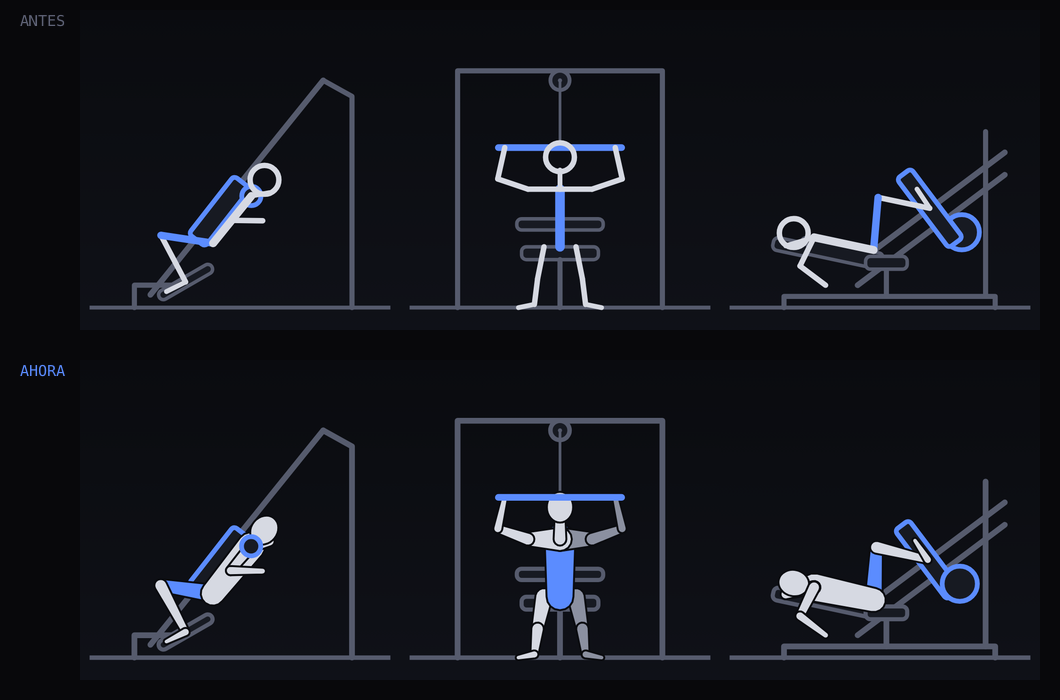
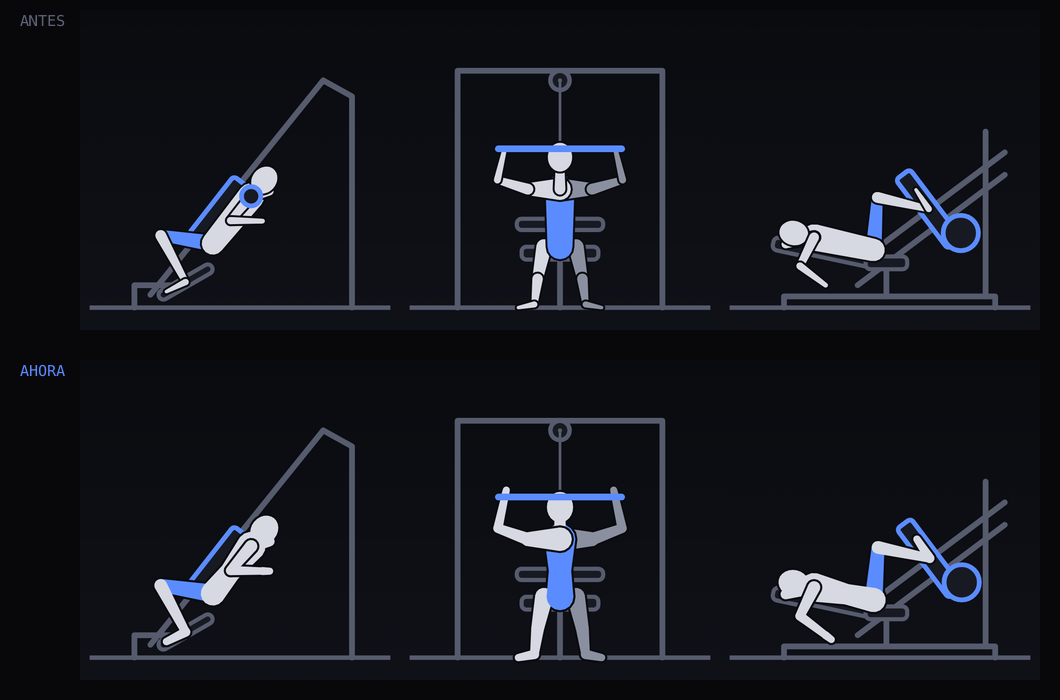
fix(dibujos): una silueta por cadena en vez de piezas con costura
Cada cápsula traía su propio contorno, así que se veían las uniones entre muslo
y pantorrilla o entre torso y pierna y el cuerpo parecía un maniquí de madera.
Ahora cada cadena se pinta en dos pasadas —todas las piezas engordadas en el
color del contorno, después los rellenos sin trazo— y el contorno queda solo por
fuera. Las cadenas que se superponen entre sí van en grupos separados para
conservar la línea que las distingue.

El torso pasa a ser pelvis y caja torácica con cintura, y la mano es un bloque
en la prolongación del antebrazo en vez de una punta.

El arnés de hombros vuelve a dibujarse detrás de la figura: encima le tapaba la
cabeza en la hack y en los gemelos.

diff --git a/src/app.tsx b/src/app.tsx
@@ -66,15 +66,55 @@ function bone(a: Joint, b: Joint, wa: number, wb: number): string {
   return "M" + pts.join("L") + "Z";
 }
 
-function Part(props: { a: Joint; b: Joint; wa: number; wb: number; c: string }) {
+type Shape = { d: string; c: string };
+
+/** Elipse como path, para que la cabeza entre en el mismo pase que el resto. */
+function oval(at: Joint, rx: number, ry: number, tilt: number): string {
+  const pts: string[] = [];
+  for (let i = 0; i < 24; i++) {
+    const t = (Math.PI * 2 * i) / 24;
+    const x = Math.cos(t) * rx;
+    const y = Math.sin(t) * ry;
+    pts.push(
+      (at[0] + x * Math.cos(tilt) - y * Math.sin(tilt)).toFixed(2) +
+        "," +
+        (at[1] + x * Math.sin(tilt) + y * Math.cos(tilt)).toFixed(2)
+    );
+  }
+  return "M" + pts.join("L") + "Z";
+}
+
+/** Punto a fracción del camino de a a b. */
+function along(a: Joint, b: Joint, k: number): Joint {
+  return [a[0] + (b[0] - a[0]) * k, a[1] + (b[1] - a[1]) * k];
+}
+
+/** Prolonga el segmento a→b más allá de b, para la mano. */
+function beyond(a: Joint, b: Joint, by: number): Joint {
+  const len = Math.hypot(b[0] - a[0], b[1] - a[1]) || 1;
+  return [b[0] + ((b[0] - a[0]) / len) * by, b[1] + ((b[1] - a[1]) / len) * by];
+}
+
+/**
+ * Dibuja un grupo de piezas como una sola silueta: primero todas engordadas en
+ * el color del contorno, después los rellenos sin trazo. Así el contorno queda
+ * solo por fuera y adentro no se ven las costuras entre muslo y pantorrilla, que
+ * es lo que hacía que el cuerpo pareciera un maniquí de madera.
+ *
+ * Cada cadena que se superpone con otra —el brazo sobre el torso, la pierna
+ * lejana sobre la cercana— va en su propio grupo, para que ahí sí quede la línea
+ * que las separa.
+ */
+function Silhouette(props: { shapes: Shape[] }) {
   return (
-    <path
-      d={bone(props.a, props.b, props.wa, props.wb)}
-      fill={props.c}
-      stroke={OUTLINE}
-      stroke-width={1.2}
-      stroke-linejoin="round"
-    />
+    <g>
+      {props.shapes.map((s, i) => (
+        <path key={"o" + i} d={s.d} fill={OUTLINE} stroke={OUTLINE} stroke-width={2.6} stroke-linejoin="round" />
+      ))}
+      {props.shapes.map((s, i) => (
+        <path key={"f" + i} d={s.d} fill={s.c} />
+      ))}
+    </g>
   );
 }
 
@@ -82,61 +122,72 @@ function Figure(props: { ex: Exercise; pose: Pose }) {
   const { ex, pose: p } = props;
   const hot = new Set(ex.primary.map((m) => (MUSCLE[m] ? MUSCLE[m][0] : "")).filter(Boolean));
   const color = (k: string) => (hot.has(k) ? ACCENT : BONE);
-  const parts: JSX.Element[] = [];
+  const cap = (a: Joint, b: Joint, wa: number, wb: number, c: string): Shape => ({ d: bone(a, b, wa, wb), c });
 
-  const head = (at: Joint, toward: Joint) => {
-    const a = Math.atan2(at[1] - toward[1], at[0] - toward[0]);
-    return (
-      <ellipse
-        cx={at[0]}
-        cy={at[1]}
-        rx={8.2}
-        ry={9.6}
-        transform={"rotate(" + ((a * 180) / Math.PI + 90).toFixed(1) + " " + at[0] + " " + at[1] + ")"}
-        fill={BONE}
-        stroke={OUTLINE}
-        stroke-width={1.2}
-      />
-    );
+  const leg = (hip: Joint, knee: Joint, ankle: Joint, toe: Joint, heel: Joint | undefined, dim: string | null): Shape[] => [
+    cap(hip, knee, 5.6, 4, dim ?? color("thigh")),
+    cap(knee, ankle, 4, 2.7, dim ?? color("shin")),
+    cap(ankle, toe, 3, 2.3, dim ?? BONE),
+    ...(heel ? [cap(ankle, heel, 3, 2.4, dim ?? BONE)] : [])
+  ];
+
+  const arm = (shoulder: Joint, elbow: Joint, hand: Joint, dim: string | null): Shape[] => [
+    cap(shoulder, elbow, 3.9, 2.9, dim ?? color("upperarm")),
+    cap(elbow, hand, 2.9, 2.3, dim ?? color("forearm")),
+    // La mano: un bloque corto en la prolongación del antebrazo. Sin esto el
+    // brazo termina en punta y es donde el ojo detecta que no es una persona.
+    cap(hand, beyond(elbow, hand, 4.5), 2.5, 2.2, dim ?? BONE)
+  ];
+
+  /** Pelvis y caja torácica por separado, con la cintura más angosta en el medio. */
+  const trunk = (hip: Joint, shoulder: Joint, wHip: number, wWaist: number, wChest: number): Shape[] => {
+    const waist = along(hip, shoulder, 0.45);
+    return [cap(hip, waist, wHip, wWaist, color("torso")), cap(waist, shoulder, wWaist, wChest, color("torso"))];
   };
 
   if (ex.view === "front") {
     const cx = 100;
     const hipC: Joint = [cx, p.hip[1]];
     const shC: Joint = [cx, p.shoulder[1]];
-    // Lado lejano primero, para que el cercano quede encima.
-    for (const flip of [true, false]) {
-      const f = (j: Joint): Joint => (flip ? mirror(j) : j);
-      const dim = flip ? SHADE : null;
-      parts.push(<Part a={f(p.hip)} b={f(p.knee)} wa={5.4} wb={3.9} c={dim ?? color("thigh")} />);
-      parts.push(<Part a={f(p.knee)} b={f(p.ankle)} wa={3.9} wb={2.5} c={dim ?? color("shin")} />);
-      parts.push(<Part a={f(p.ankle)} b={f(p.toe)} wa={2.5} wb={1.7} c={dim ?? BONE} />);
-    }
-    parts.push(<Part a={hipC} b={shC} wa={8.4} wb={9.6} c={color("torso")} />);
-    for (const flip of [true, false]) {
-      const f = (j: Joint): Joint => (flip ? mirror(j) : j);
-      const dim = flip ? SHADE : null;
-      // Clavícula y deltoides: sin esto el brazo queda flotando lejos del torso.
-      parts.push(<Part a={shC} b={f(p.shoulder)} wa={7.4} wb={4.4} c={dim ?? BONE} />);
-      parts.push(<Part a={f(p.shoulder)} b={f(p.elbow)} wa={4} wb={2.8} c={dim ?? color("upperarm")} />);
-      parts.push(<Part a={f(p.elbow)} b={f(p.hand)} wa={2.8} wb={2} c={dim ?? color("forearm")} />);
-    }
-    parts.push(<Part a={shC} b={[cx, p.head[1] + 7]} wa={4} wb={3.4} c={BONE} />);
-    parts.push(head([cx, p.head[1]], [cx, p.head[1] + 20]));
-  } else {
-    parts.push(<Part a={p.hip} b={p.knee} wa={5.6} wb={4} c={color("thigh")} />);
-    parts.push(<Part a={p.knee} b={p.ankle} wa={4} wb={2.6} c={color("shin")} />);
-    parts.push(<Part a={p.ankle} b={p.toe} wa={2.6} wb={1.7} c={BONE} />);
-    if (p.heel) parts.push(<Part a={p.ankle} b={p.heel} wa={2.6} wb={2} c={BONE} />);
-    parts.push(<Part a={p.hip} b={p.shoulder} wa={7.6} wb={8.8} c={color("torso")} />);
-    const neck: Joint = [p.head[0] + (p.head[0] - p.shoulder[0]) * 0.4, p.head[1] + 7];
-    parts.push(<Part a={p.shoulder} b={neck} wa={4} wb={3.2} c={BONE} />);
-    parts.push(head(p.head, p.shoulder));
-    parts.push(<Part a={p.shoulder} b={p.elbow} wa={3.7} wb={2.9} c={color("upperarm")} />);
-    parts.push(<Part a={p.elbow} b={p.hand} wa={2.9} wb={2.1} c={color("forearm")} />);
+    const far = (j: Joint): Joint => mirror(j);
+    const tilt = 0;
+    return (
+      <g>
+        <Silhouette
+          shapes={[
+            ...leg(far(p.hip), far(p.knee), far(p.ankle), far(p.toe), undefined, SHADE),
+            cap(shC, far(p.shoulder), 7.4, 4.4, SHADE),
+            ...arm(far(p.shoulder), far(p.elbow), far(p.hand), SHADE)
+          ]}
+        />
+        <Silhouette
+          shapes={[
+            ...leg(p.hip, p.knee, p.ankle, p.toe, undefined, null),
+            ...trunk(hipC, shC, 8.4, 7, 9.6),
+            cap(shC, [cx, p.head[1] + 7], 4, 3.4, BONE),
+            { d: oval([cx, p.head[1]], 8.2, 9.6, tilt), c: BONE }
+          ]}
+        />
+        <Silhouette shapes={[cap(shC, p.shoulder, 7.4, 4.4, BONE), ...arm(p.shoulder, p.elbow, p.hand, null)]} />
+      </g>
+    );
   }
 
-  return <g>{parts.map((el, i) => <g key={i}>{el}</g>)}</g>;
+  const neck: Joint = [p.head[0] + (p.head[0] - p.shoulder[0]) * 0.4, p.head[1] + 7];
+  const tilt = Math.atan2(p.head[1] - p.shoulder[1], p.head[0] - p.shoulder[0]) + Math.PI / 2;
+  return (
+    <g>
+      <Silhouette
+        shapes={[
+          ...leg(p.hip, p.knee, p.ankle, p.toe, p.heel, null),
+          ...trunk(p.hip, p.shoulder, 7.6, 6.4, 9),
+          cap(p.shoulder, neck, 4, 3.2, BONE),
+          { d: oval(p.head, 8.2, 9.6, tilt), c: BONE }
+        ]}
+      />
+      <Silhouette shapes={arm(p.shoulder, p.elbow, p.hand, null)} />
+    </g>
+  );
 }
 
 const PAD_FILL = "#171a22";
@@ -168,6 +219,13 @@ function Pad(props: { x: number; y: number; w: number; h: number; angle?: number
 // Lo que toca al cuerpo se dibuja encima de la figura; la estructura, detrás.
 const ON_TOP = new Set(["grip", "bar", "rollerPad", "dumbbell"]);
 
+function onTop(e: Equip): boolean {
+  // Excepción: el arnés de hombros de la hack y los gemelos va detrás, porque
+  // encima le tapa la cabeza a la figura.
+  if (e.type === "rollerPad" && e.at === "shoulder") return false;
+  return ON_TOP.has(e.type);
+}
+
 function Gear(props: { ex: Exercise; pose: Pose; layer: "back" | "front" }) {
   const { ex, pose: p } = props;
   const parts: JSX.Element[] = [];
@@ -176,7 +234,7 @@ function Gear(props: { ex: Exercise; pose: Pose; layer: "back" | "front" }) {
   const both = (j: Joint): Joint[] => (front ? [j, mirror(j)] : [j]);
 
   for (const e of ex.equip as Equip[]) {
-    if (ON_TOP.has(e.type) !== (props.layer === "front")) continue;
+    if (onTop(e) !== (props.layer === "front")) continue;
     if (e.type === "ground") {
       parts.push(<line x1={6} y1={186} x2={194} y2={186} stroke={STEEL} stroke-width={2.8} />);
     } else if (e.type === "frame" && e.pts) {

diff --git a/docs/dibujos.md b/docs/dibujos.md
@@ -37,19 +37,32 @@ Costo: ~60 líneas en `program.ts`, cero datos nuevos, cero dependencias.
 
 Era un palote: líneas de ancho fijo entre articulaciones. Ahora cada hueso es una
 cápsula de radio distinto en cada punta —el muslo es grueso en la cadera y afina
-en la rodilla— con contorno oscuro para que los miembros superpuestos se separen,
-y el músculo que trabaja se rellena en el color de acento en vez de solo pintar
-la línea. En vista frontal el lado lejano va en un gris más apagado, así se lee
-la profundidad.
+en la rodilla— y el músculo que trabaja se rellena en el color de acento en vez
+de solo pintar la línea. En vista frontal el lado lejano va en un gris más
+apagado, así se lee la profundidad.
+
+Con las cápsulas cada una con su contorno el cuerpo parecía un maniquí de
+madera: se veían las costuras entre muslo y pantorrilla, entre torso y pierna.
+Ahora cada cadena se dibuja como **una sola silueta** —primero todas las piezas
+engordadas en el color del contorno, después los rellenos sin trazo—, así el
+contorno queda solo por fuera y adentro no hay uniones. Las cadenas que se
+superponen entre sí —el brazo sobre el torso, la pierna lejana sobre la
+cercana— van en grupos separados, para que ahí sí quede la línea que las
+distingue.
+
+El torso dejó de ser una cápsula sola: es pelvis y caja torácica con la cintura
+más angosta en el medio. Y la mano es un bloque corto en la prolongación del
+antebrazo, que antes terminaba en punta.
 
 ![Antes y ahora](figuras.png)
 
-El equipo que toca al cuerpo —manijas, barras, rodillos— pasó a dibujarse
-**encima** de la figura; la estructura de la máquina sigue detrás. Con el cuerpo
-macizo, si no, el rodillo del femoral quedaba tapado.
+El equipo que toca al cuerpo —manijas, barras, rodillos— se dibuja **encima** de
+la figura; la estructura de la máquina sigue detrás. Con el cuerpo macizo, si no,
+el rodillo del femoral quedaba tapado. La excepción es el arnés de hombros de la
+hack y los gemelos, que va detrás porque encima le tapa la cabeza a la figura.
 
-Sale de las mismas coordenadas de siempre: no hay datos nuevos ni assets. +0,3 KB
-gzip.
+Sale de las mismas coordenadas de siempre: no hay datos nuevos ni assets. +0,5 KB
+gzip contra el palote.
 
 No es el render 3D anatómico de apps como Kaizen. Ese estilo es media comercial
 de [Gym Visual](https://gymvisual.com/) —los datasets de GitHub que lo
